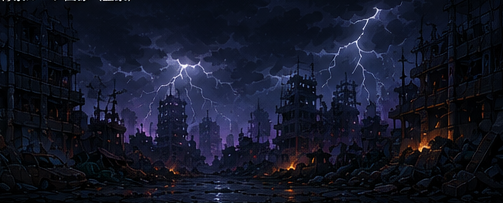
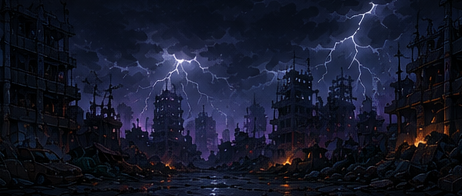
Polish: fix bg bleed, energy-drink slice, drop goal flag, heart HP
- Re-slice stage backgrounds with hard column bounds so stage 1 no
  longer shows stage 2's neon (and trim the panel label row).
- Re-slice the health pickup to a single clean energy-drink can.
- Remove the goal-flag marker (stage still completes on reaching it).
- HP HUD now uses heart pips instead of crosses.

diff --git a/src/game/PlayScene.ts b/src/game/PlayScene.ts
@@ -596,7 +596,6 @@ export class PlayScene implements Scene {
     ctx.translate(-Math.round(this.camera.x) + this.camera.shakeX, this.camera.shakeY);
     this.drawLevel(ctx);
     this.drawSpikes(ctx);
-    if (!this.level.isBossStage) this.drawGoal(ctx);
     for (const p of this.pickups) p.render(ctx);
     for (const e of this.enemies) e.render(ctx);
     if (this.boss && this.boss.alive) this.boss.render(ctx);
@@ -972,34 +971,20 @@ export class PlayScene implements Scene {
     }
   }
 
-  private drawGoal(ctx: CanvasRenderingContext2D): void {
-    const x = this.level.goalX;
-    const top = this.level.groundY - 170;
-    ctx.fillStyle = "#cbd5e1";
-    ctx.fillRect(x, top, 6, 170);
-    ctx.fillStyle = this.state === "won" || this.state === "complete" ? "#4ade80" : "#fbbf24";
-    ctx.beginPath();
-    ctx.moveTo(x + 6, top);
-    ctx.lineTo(x + 48, top + 16);
-    ctx.lineTo(x + 6, top + 32);
-    ctx.closePath();
-    ctx.fill();
-  }
-
   private drawHud(ctx: CanvasRenderingContext2D): void {
-    // --- top-left: HP (gold crosses), lives portrait, score ---
-    const cross = getSprite("item_cross");
-    const ch = 22;
+    // --- top-left: HP (hearts), lives portrait, score ---
+    const heart = getSprite("item_heart");
+    const ch = 20;
     let hx = 16;
     for (let i = 0; i < this.player.maxHp; i++) {
-      if (cross) {
-        const { width, height } = cross as unknown as { width: number; height: number };
+      if (heart) {
+        const { width, height } = heart as unknown as { width: number; height: number };
         const w = ch * (width / height);
         ctx.globalAlpha = i < this.player.hp ? 1 : 0.22;
         ctx.imageSmoothingEnabled = true;
-        ctx.drawImage(cross, hx, 12, w, ch);
+        ctx.drawImage(heart, hx, 13, w, ch);
         ctx.globalAlpha = 1;
-        hx += w + 1;
+        hx += w + 3;
       } else {
         ctx.fillStyle = i < this.player.hp ? "#ef4444" : "#475569";
         ctx.fillRect(hx, 14, 18, 18);

diff --git a/src/main.ts b/src/main.ts
@@ -40,7 +40,7 @@ import itemGoldUrl from "./game/assets/item_gold.png";
 import itemDrinkUrl from "./game/assets/item_drink.png";
 import itemWUrl from "./game/assets/item_w.png";
 import itemSUrl from "./game/assets/item_s.png";
-import itemCrossUrl from "./game/assets/item_cross.png";
+import itemCrossUrl from "./game/assets/item_heart.png";
 import fxExpl0Url from "./game/assets/fx_expl0.png";
 import fxExpl1Url from "./game/assets/fx_expl1.png";
 import fxExpl2Url from "./game/assets/fx_expl2.png";
@@ -98,7 +98,7 @@ loadSprite("item_gold", itemGoldUrl);
 loadSprite("item_drink", itemDrinkUrl);
 loadSprite("item_w", itemWUrl);
 loadSprite("item_s", itemSUrl);
-loadSprite("item_cross", itemCrossUrl);
+loadSprite("item_heart", itemCrossUrl);
 loadSprite("fx_expl0", fxExpl0Url);
 loadSprite("fx_expl1", fxExpl1Url);
 loadSprite("fx_expl2", fxExpl2Url);
